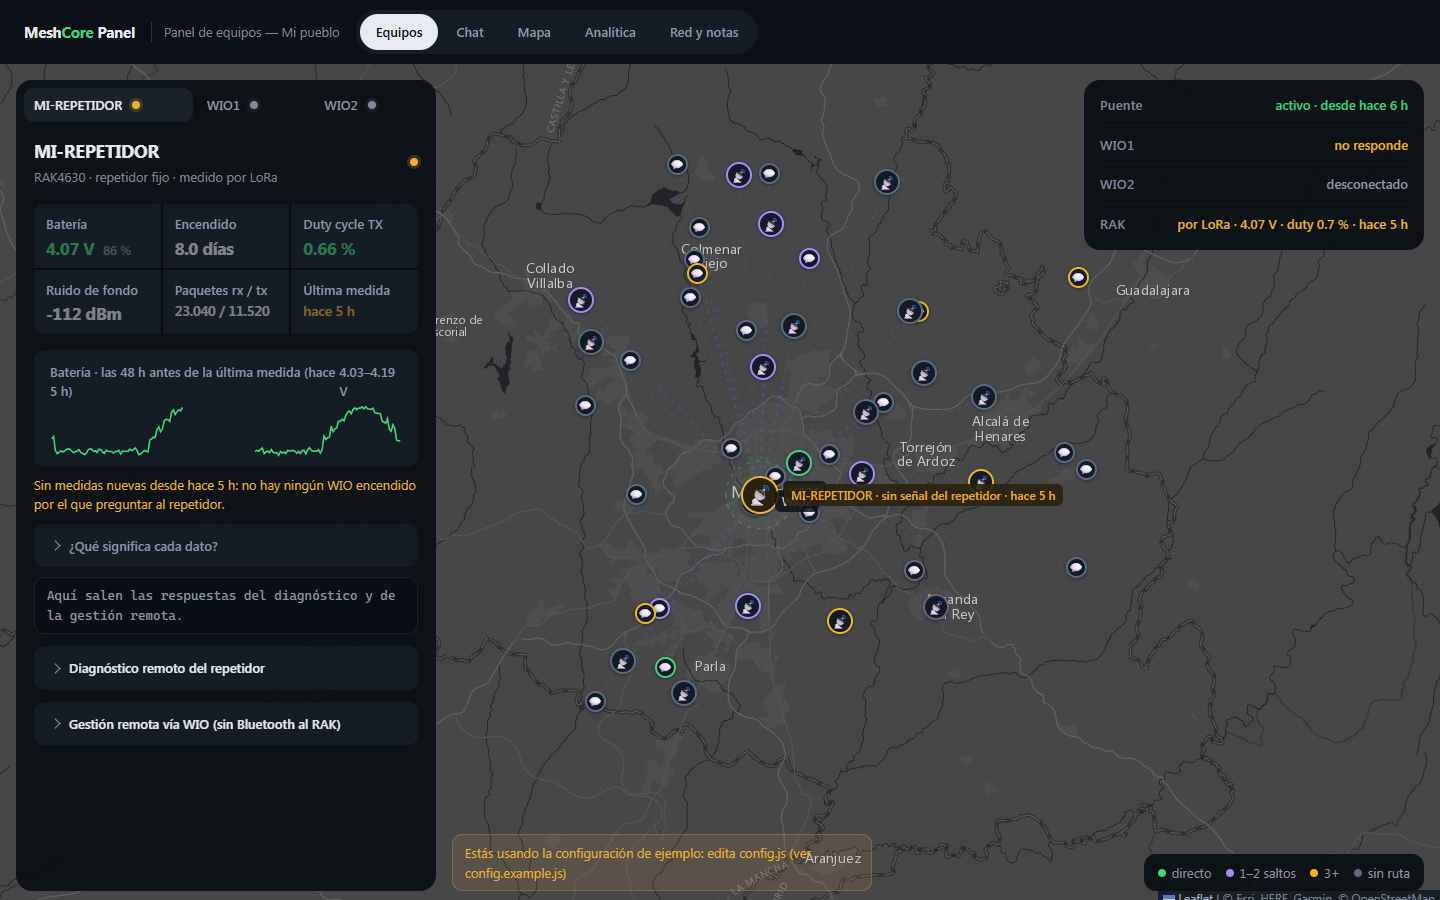
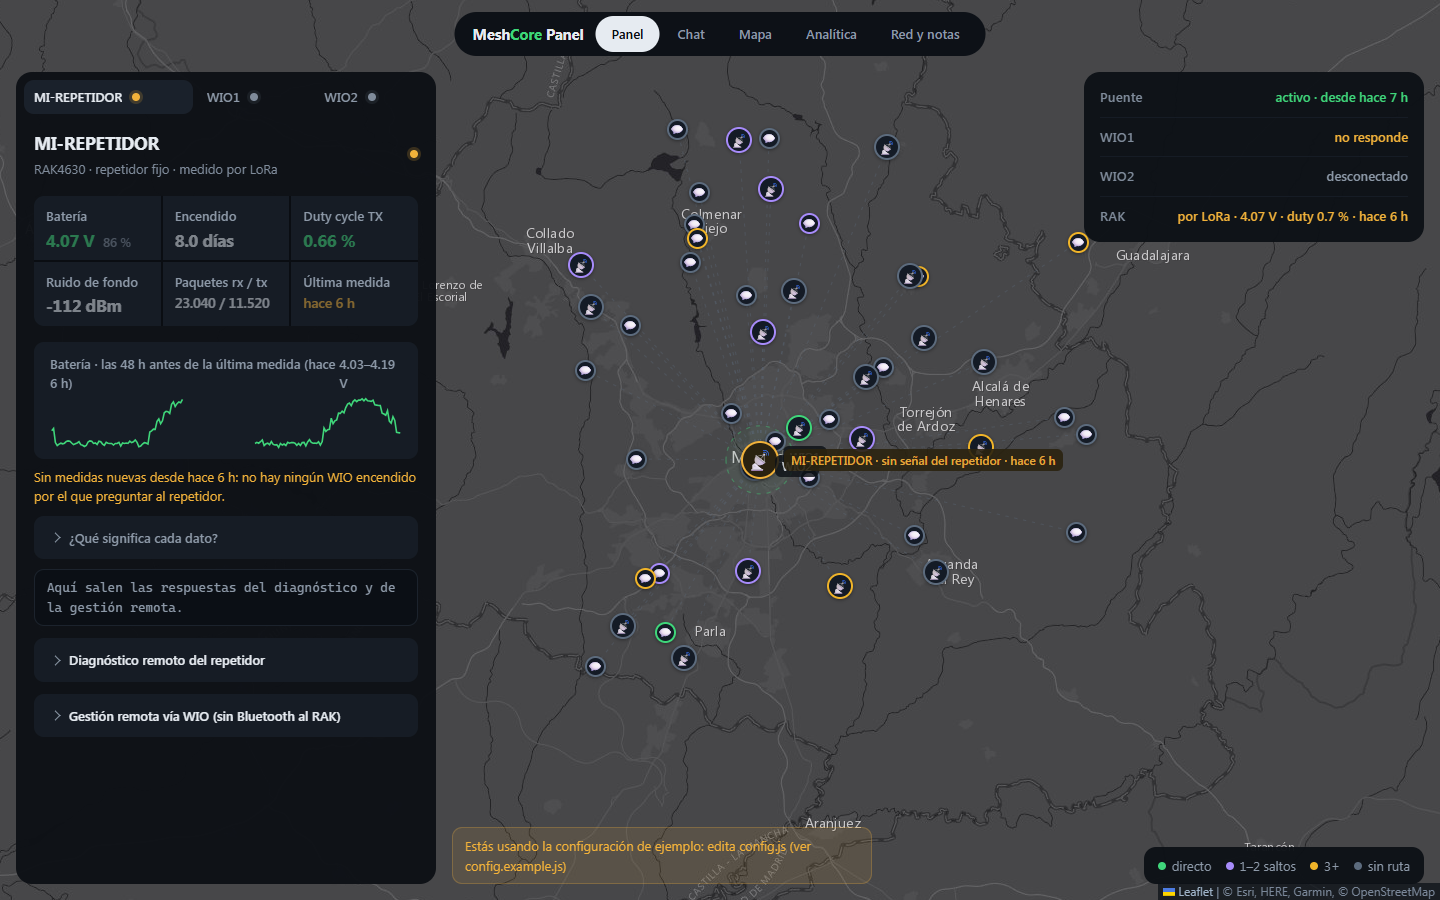
v1.15.0: pastilla flotante sin barra superior, Panel y barras laterales flotantes

diff --git a/dashboard.html b/dashboard.html
@@ -643,6 +643,37 @@ p,.statsNote{max-width:75ch}
 #eqMap .leaflet-control-attribution{background:rgba(13,17,22,.8);color:#6d7a88}
 #eqMap .leaflet-control-attribution a{color:#8592a0}
 .red-nav::after{display:none!important}
+/* Sin barra superior: marca y pestañas en una sola pastilla centrada que flota */
+header{position:fixed!important;top:12px!important;left:50%!important;transform:translateX(-50%);z-index:1200!important;
+  display:flex!important;align-items:center!important;gap:6px!important;padding:4px 4px 4px 18px!important;min-height:0!important;
+  background:rgba(13,17,22,.96)!important;border-radius:999px!important;border:none!important;width:auto!important;max-width:calc(100vw - 24px);flex-wrap:nowrap!important}
+header .sub,header .spacer{display:none!important}
+header h1{font-size:15px!important;margin-right:6px}
+header h1::before{display:none!important}
+header nav.tabs{background:transparent!important;margin:0!important;padding:0!important;border:none!important;width:auto!important}
+header nav.top a{border-radius:999px!important;padding:8px 14px!important;color:var(--dim)!important;text-decoration:none}
+.wrap{padding-top:28px}
+#tab-stats.on,#tab-red.on{padding-top:64px}
+#tab-equipos.on,#tab-chat.on{height:100dvh!important}
+#tab-equipos .devWrap,#tab-equipos .equiposWrap .grid,#tab-chat .chatcard{top:72px!important}
+@media (max-width:860px){
+  header{top:8px!important;padding:3px!important}
+  header h1,header nav.top{display:none!important}
+  header nav.tabs{overflow-x:auto;scrollbar-width:none}
+  #tab-equipos.on,#tab-chat.on{height:100dvh!important}
+  #tab-equipos #cfgAviso{top:56px!important}
+  #tab-equipos .devWrap,#tab-chat .chatcard{top:auto!important}
+}
+/* Barras laterales flotantes (Mapa y Red y notas), como los paneles de Equipos */
+@media (min-width:861px){
+  .mapWrap{position:relative!important;display:block!important}
+  #map{position:absolute!important;inset:0!important;height:auto!important}
+  .mapSidebar{position:absolute!important;top:72px;left:16px;bottom:16px;width:280px!important;z-index:500;border-radius:16px!important;border:none!important;background:rgba(13,17,22,.96)!important;overflow-y:auto}
+  #map .leaflet-top.leaflet-left{left:304px;top:62px}
+  #map .leaflet-top.leaflet-right{top:62px}
+  #map .leaflet-bottom.leaflet-left{left:304px}
+  .redSidebar{position:sticky!important;top:72px!important;margin:72px 0 16px 16px;border-radius:16px;border:none!important;max-height:calc(100dvh - 88px)}
+}
 .eqAviso{background:#2a2210!important;color:#f2b23a!important;font-weight:600}
 /* Cabecera del diseño nuevo: pestañas en pastillas, la activa resaltada */
 header{background:var(--bg2)!important;border-bottom:none!important}
@@ -660,6 +691,8 @@ nav.tabs button .badge2{margin-left:6px}
 #tab-chat #chatBox{padding:8px 4px!important}
 #tab-chat .chatComposer{margin:8px 0 0!important}
 #tab-chat .eqLeyenda{right:auto;left:16px}
+#tab-chat #chatContacts{background:transparent!important;padding:0 12px 0 0!important}
+#tab-chat .chatHeadTxt .cardsub{display:none}
 @media (max-width:860px){
   #tab-chat.on{height:calc(100dvh - 96px)}
   #tab-chat .chatcard{top:auto;left:0;right:0;bottom:0;width:auto!important;height:78%!important;background:var(--panel,#0d1116)!important;border-radius:20px 20px 0 0!important}
@@ -707,7 +740,7 @@ footer{color:var(--dim2)}
   <h1 id="cfg-titulo">Mesh<span>Core</span> Panel</h1>
   <span class="sub" id="cfg-subtitulo">Panel de equipos</span>
   <nav class="tabs">
-    <button class="on" data-tab="equipos">Equipos</button>
+    <button class="on" data-tab="equipos">Panel</button>
     <button data-tab="chat">Chat<span class="badge2" id="chatBadge" style="display:none">0</span></button>
     <button data-tab="mapa">Mapa</button>
         <button data-tab="stats">Analítica</button>
@@ -994,7 +1027,7 @@ footer{color:var(--dim2)}
         <div id="ccLista"></div>
       </aside>
       <div id="chatBox">
-        <div class="msg sys">Conecta un WIO (pestaña Equipos) para leer y enviar mensajes.</div>
+        <div class="msg sys">Conecta un WIO (pestaña Panel) para leer y enviar mensajes.</div>
       </div>
       </div>
       <div class="chatComposer">
@@ -1272,7 +1305,7 @@ footer{color:var(--dim2)}
         <button id="btn-scan-w1">Analizar vía WIO1</button>
         <button id="btn-scan-w2">Analizar vía WIO2</button>
       </div>
-      <pre class="loglet" id="neighborsResult" style="display:none">Conecta un WIO (pestaña Equipos) y pulsa "Analizar" para ver qué nodos y repetidores ve tu radio, y a cuántos saltos está cada uno.</pre>
+      <pre class="loglet" id="neighborsResult" style="display:none">Conecta un WIO (pestaña Panel) y pulsa "Analizar" para ver qué nodos y repetidores ve tu radio, y a cuántos saltos está cada uno.</pre>
     </div>
 
   </div>
@@ -1370,7 +1403,7 @@ const CFG=Object.assign({
 }, window.PANEL_CONFIG||{});
 const REPEATER_POS=[CFG.repetidor.lat, CFG.repetidor.lon];
 const REP_NOMBRE=CFG.repetidor.nombre;
-const PANEL_VERSION='1.14.0';
+const PANEL_VERSION='1.15.0';
 $('#panelVersion').textContent='v'+PANEL_VERSION;
 // Sin config.js propio el panel funciona, pero con nombres de ejemplo que no
 // cuadran con ninguna radio: avisarlo para que no parezca un fallo.
@@ -1813,7 +1846,7 @@ async function scanNeighbors(idx){
   const mapStatus=$('#neighborsMapStatus');
   const n=wNodes[idx];
   if(!n||!n.device||!n.device.gatt.connected){
-    out.textContent='WIO'+idx+' no conectado. Conéctalo en la pestaña Equipos primero.';
+    out.textContent='WIO'+idx+' no conectado. Conéctalo en la pestaña Panel primero.';
     if(mapStatus) mapStatus.textContent='WIO'+idx+' no conectado';
     return;
   }
@@ -2708,7 +2741,7 @@ $('#chatClear').onclick=()=>{
   if(!confirm('¿Borrar todo el historial de chat guardado en este navegador? No afecta a los mensajes en los nodos.')) return;
   saveChatLog([]);
   seenMsgs.clear();
-  $('#chatBox').innerHTML='<div class="msg sys">Conecta un WIO (pestaña Equipos) para leer y enviar mensajes.</div>';
+  $('#chatBox').innerHTML='<div class="msg sys">Conecta un WIO (pestaña Panel) para leer y enviar mensajes.</div>';
   delete $('#chatBox').dataset.lastDay;
 };
 // ==================== ANALITICA DE RADIO ====================
@@ -3506,7 +3539,7 @@ $('#chatPull').onclick=async()=>{
 function updateListening(){
   const ns=connectedNodes();
   const note=$('#chatNote');
-  if(!ns.length){ note.textContent='Ningún WIO conectado. Conéctalos en la pestaña Equipos.'; return; }
+  if(!ns.length){ note.textContent='Ningún WIO conectado. Conéctalos en la pestaña Panel.'; return; }
   note.textContent='Escuchando en: '+ns.map(n=>n.info?n.info.name:'nodo').join(', ')+
                    ' · máx. 130 caracteres · se envía por el nodo del desplegable';
 }

diff --git a/bridge/meshcore_ble_gateway.py b/bridge/meshcore_ble_gateway.py
@@ -90,7 +90,7 @@ def politica_cli(cmd: str, confirmed: bool):
         return 409, f'CONFIRMAR: {info.cli} - {info.note or info.label}'
     return None
 
-PANEL_VERSION = '1.14.0'
+PANEL_VERSION = '1.15.0'
 PORT = int(os.getenv('MESHCORE_BLE_GATEWAY_PORT', '8780'))
 # 0.0.0.0 por defecto porque el relay del PC entra por la LAN. Si el relay
 # corre en la propia Pi, MESHCORE_BIND=127.0.0.1 deja el puerto solo para nginx.

diff --git a/CHANGELOG.md b/CHANGELOG.md
@@ -3,6 +3,16 @@
 Formato basado en [Keep a Changelog](https://keepachangelog.com/es-ES/1.1.0/) y versiones
 según [SemVer](https://semver.org/lang/es/).
 
+## [1.15.0] - 2026-10-18
+
+### Cambiado
+- Sin barra superior: la marca y las pestañas van en una pastilla centrada
+  que flota sobre el contenido; fuera el subtítulo.
+- La pestaña Equipos pasa a llamarse Panel.
+- Barras laterales flotantes en Mapa y Red y notas, como los paneles del
+  Panel; el chat integra su lista de canales y contactos sin caja dentro de
+  caja.
+
 ## [1.14.0] - 2026-10-18
 
 ### Cambiado

diff --git a/README.md b/README.md
@@ -54,7 +54,7 @@ navegador ──HTTPS──> nginx (TLS + login) ──> gateway :8780 (Raspberr
 - El **relay** corre en un PC con Bluetooth cerca de los companion y es su único dueño.
 - El **repetidor** se gestiona por LoRa a través de un companion: no necesita Bluetooth.
 
-Versión actual: 1.14.0**1.0.0** · cambios en [`CHANGELOG.md`](CHANGELOG.md).
+Versión actual: 1.15.0**1.0.0** · cambios en [`CHANGELOG.md`](CHANGELOG.md).
 
 ## Requisitos
 
